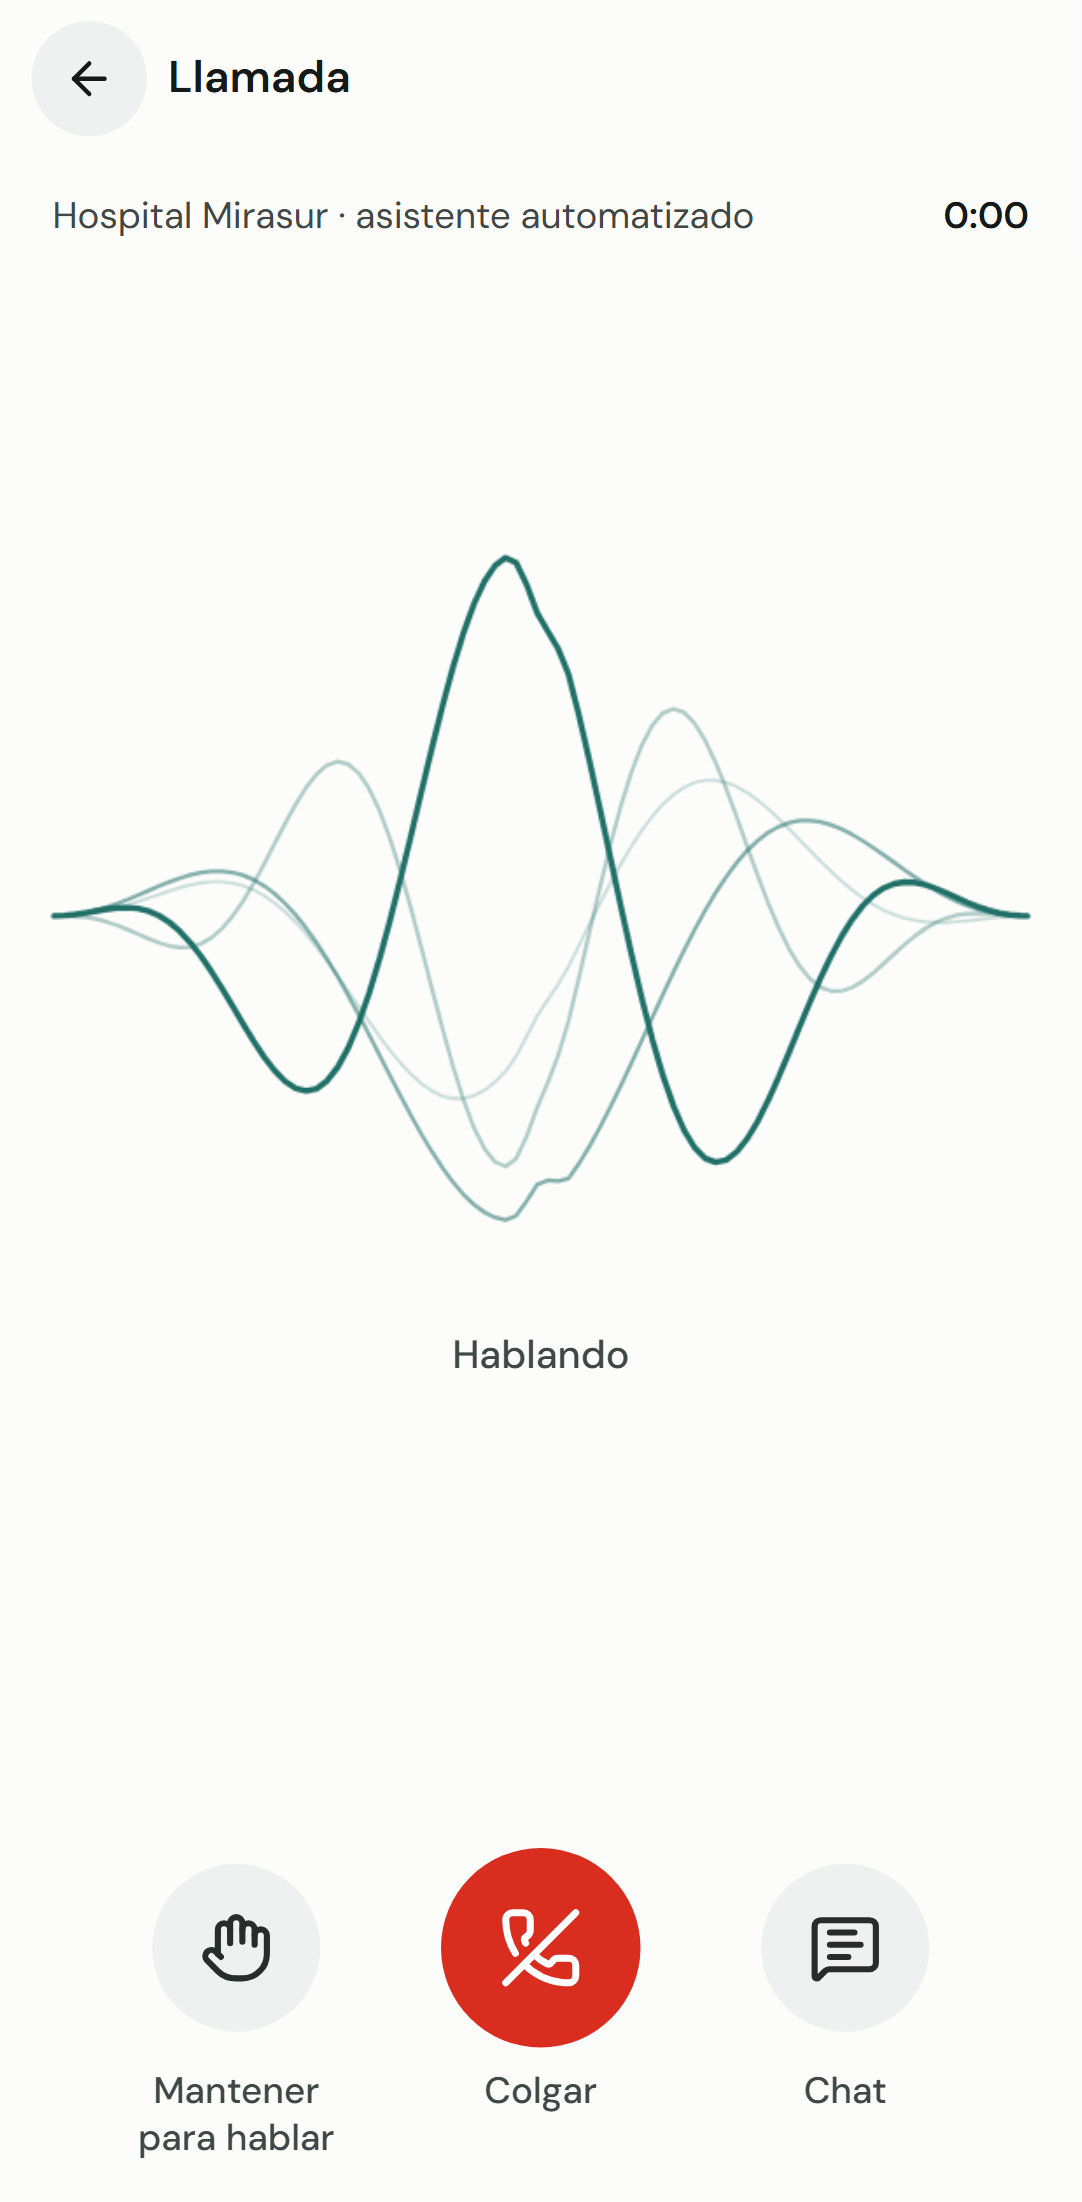
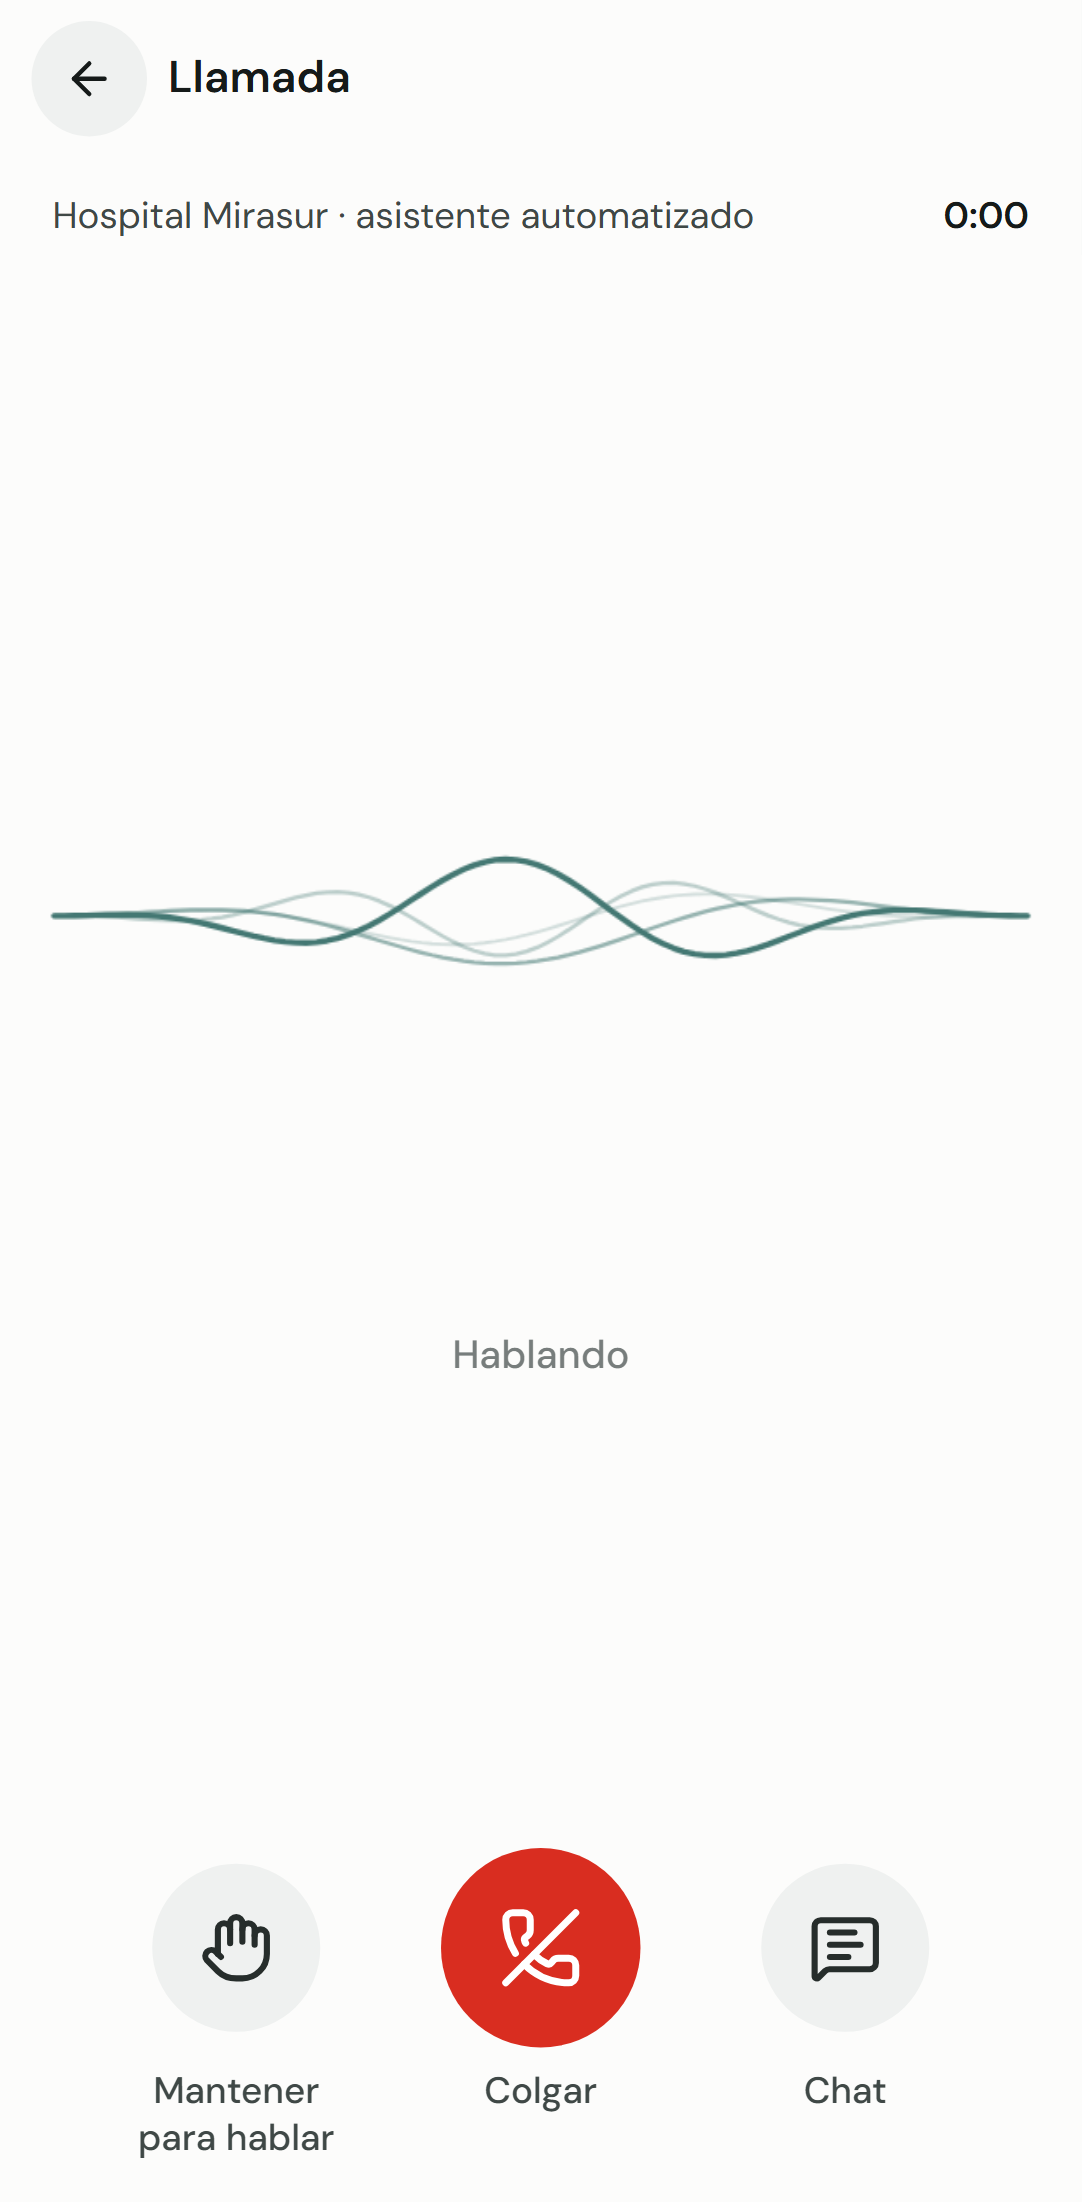
POST_FINAL: current production deployment (git build of main) and the failed attempt

diff --git a/POST_FINAL.md b/POST_FINAL.md
@@ -5,7 +5,7 @@ Lista de todo lo temporal que se creó durante la E5 para probar y presentar. Ni
 ## 0. Producción ya corre la E5 (7/11, autorizado por el equipo)
 
 - **URL final (la de los QR):** https://ods3-hackathon.vercel.app
-- **Despliegue de producción de la E5:** `dpl_2uXrhLuXpiBEYtTAXFPj1YYJZSkx` (e5 `3b38c77`, desplegado con `--prod`, variables de Production). Después, el push de `main` hace que Vercel cree otro despliegue de producción desde git con el mismo código.
+- **Despliegue de producción vigente:** `dpl_HzEaCKPyK8hrpnqW6MFUhXwpRTiz`, construido por Vercel desde git (`main` = `e5` `c187c6f`). Antes hubo un despliegue directo con `--prod` (`dpl_2uXrhLuXpiBEYtTAXFPj1YYJZSkx`, e5 `3b38c77`) y un intento desde git que falló sin afectar producción (`dpl_7eatK5K5dvtDsbueQ2ZEGqHSeyeq`: `.vercelignore` excluía `src/video/`; corregido a `/video/`).
 - **Para revertir:** volver al despliegue anterior, `dpl_HTUNbr1oZAnB9eAum3W7h1SfhebS` (código E4, 6/11 06:00 UTC). En Vercel: Deployments → ese despliegue → *Instant Rollback* (o *Promote*). Y `breakeven_r` de vuelta a 0.053: `update public.params set value = 0.053 where key = 'breakeven_r';`.
 - **Lo que se aplicó del plan de merge:** solo `breakeven_r` = 0.052 (`supabase/data/20261107_breakeven_v51.sql`). **No** se aplicó `supabase/merge/20261107_v51_switch.sql`: reescribe 7 funciones existentes y la E5 ya llama a las `_v51` directamente. Queda para después de la final, con `test:priority`. Tampoco se cambió el texto «Hospital María Auxiliadora» de `send_reminders` (ver `docs/plan_merge.md` §2.3).
 - **Variables:** Production tiene todas las que usa la E5. La única diferencia con Preview es `VERCEL_PREVIEW_FEEDBACK_ENABLED` (solo Preview).
